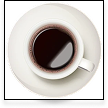
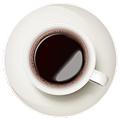
feat: coffee list

Changed region(s): [[0.0278, 0.0, 0.9722, 0.9444], [0.1111, 0.2222, 0.1389, 0.2778], [0.1389, 0.1667, 0.1667, 0.1944]]

diff --git a/src/app/components/coffee-item/coffee-item.component.scss b/src/app/components/coffee-item/coffee-item.component.scss
@@ -1,0 +1,111 @@
+:host {
+  .coffee-item {
+    background: var(--baseCard);
+    border-radius: 6px;
+    border-top-right-radius: 36px;
+    border-bottom-left-radius: 36px;
+    padding: 20px;
+    position: relative;
+
+    display: flex;
+    flex-direction: column;
+    // justify-content: center;
+    align-items: center;
+
+    .coffee-image {
+      margin-top: -40px;
+    }
+
+    .badges {
+      margin-top: 16px;
+      display: flex;
+      align-items: center;
+      justify-content: center;
+      flex-wrap: wrap;
+      gap: 4px;
+
+      .badge-item {
+        padding: 4px 8px;
+        background-color: var(--yellowLight);
+        border-radius: 100px;
+
+        color: var(--yellowDark);
+        font-size: 10px;
+        font-weight: bold;
+      }
+    }
+
+    h5 {
+      margin-top: 16px;
+      font-family: 'Baloo 2';
+      font-size: 20px;
+      font-weight: bold;
+    }
+
+    p.description {
+      color: var(--baseLabel);
+      text-align: center;
+      margin-top: 8px;
+    }
+
+    .coffee-item-footer {
+      margin-top: 30px;
+      display: flex;
+      align-items: center;
+    }
+
+    .coffee-item-footer {
+      display: flex;
+      align-items: center;
+
+      p.price {
+        font-family: 'Baloo 2';
+        font-size: 24px;
+        font-weight: bold;
+
+        span {
+          font-family: 'Roboto';
+          font-size: 14px;
+          font-weight: 400;
+        }
+      }
+
+      button {
+        ::ng-deep app-cart-icon div {
+          margin-left: 8px;
+          background-color: var(--purple);
+          color: white;
+          height: 38px;
+        }
+      }
+
+      .qtd-control {
+        display: flex;
+        align-items: center;
+        padding: 8px;
+        background-color: var(--baseButton);
+        border-radius: 6px;
+        margin-left: 23px;
+        height: 38px;
+
+        button {
+          background-color: transparent;
+          color: var(--purple);
+          display: flex;
+          align-items: center;
+          justify-content: center;
+        }
+
+        input {
+          max-width: 30px;
+          background-color: transparent;
+          border: 0;
+          outline: none;
+          text-align: center;
+          color: var(--baseTitle);
+          font-size: 16px;
+        }
+      }
+    }
+  }
+}

diff --git a/src/app/components/coffee-item/coffee-item.component.html b/src/app/components/coffee-item/coffee-item.component.html
@@ -1,0 +1,32 @@
+<div class="coffee-item">
+  <img src="assets/coffees/americano.png" alt="café expresso" class="coffee-image" />
+
+  <ul class="badges">
+    <li class="badge-item">TRADICIONAL</li>
+    <li class="badge-item">TRADICIONAL</li>
+  </ul>
+
+  <h5>EXPRESSO AMERICANO</h5>
+
+  <p class="description">O tradicional café feito com água quente e grãos moídos</p>
+
+  <div class="coffee-item-footer">
+    <p class="price"><span>R$</span> 9,90</p>
+
+    <div class="qtd-control">
+      <button type="button" aria-label="Remover 1 item do carrinho">
+        <app-minus-icon [width]="12" [height]="12"></app-minus-icon>
+      </button>
+
+      <input type="text" value="0" />
+
+      <button type="button" aria-label="Adicionar +1 item ao carrinho">
+        <app-plus-icon [width]="12" [height]="12"></app-plus-icon>
+      </button>
+    </div>
+
+    <button type="button">
+      <app-cart-icon class="cart-item"></app-cart-icon>
+    </button>
+  </div>
+</div>

diff --git a/src/app/pages/home/home.component.ts b/src/app/pages/home/home.component.ts
@@ -4,6 +4,7 @@ import { ShoppingCartFillIconComponent } from '../../components/icons/shopping-c
 import { PackageIconComponent } from '../../components/icons/package-icon.component'
 import { CoffeeFillIconComponent } from '../../components/icons/coffee-fill-icon.component'
 import { TimerFillIconComponent } from '../../components/icons/timer-fill-icon.component'
+import { CoffeeItemComponent } from '../../components/coffee-item/coffee-item.component'
 
 @Component({
   selector: 'app-home',
@@ -12,7 +13,8 @@ import { TimerFillIconComponent } from '../../components/icons/timer-fill-icon.c
     ShoppingCartFillIconComponent,
     PackageIconComponent,
     CoffeeFillIconComponent,
-    TimerFillIconComponent
+    TimerFillIconComponent,
+    CoffeeItemComponent
   ],
   templateUrl: './home.component.html',
   styleUrl: './home.component.scss'

diff --git a/src/app/components/coffee-item/coffee-item.component.spec.ts b/src/app/components/coffee-item/coffee-item.component.spec.ts
@@ -1,0 +1,22 @@
+import { ComponentFixture, TestBed } from '@angular/core/testing'
+
+import { CoffeeItemComponent } from './coffee-item.component'
+
+describe('CoffeeItemComponent', () => {
+  let component: CoffeeItemComponent
+  let fixture: ComponentFixture<CoffeeItemComponent>
+
+  beforeEach(async () => {
+    await TestBed.configureTestingModule({
+      imports: [CoffeeItemComponent]
+    }).compileComponents()
+
+    fixture = TestBed.createComponent(CoffeeItemComponent)
+    component = fixture.componentInstance
+    fixture.detectChanges()
+  })
+
+  it('should create', () => {
+    expect(component).toBeTruthy()
+  })
+})

diff --git a/src/app/components/cart-icon/cart-icon.component.ts b/src/app/components/cart-icon/cart-icon.component.ts
@@ -1,11 +1,16 @@
-import { Component } from '@angular/core'
+import { Component, Input } from '@angular/core'
+import { CommonModule } from '@angular/common'
+
 import { ShoppingCartFillIconComponent } from '../icons/shopping-cart-fill-icon.component'
 
 @Component({
   selector: 'app-cart-icon',
   standalone: true,
-  imports: [ShoppingCartFillIconComponent],
+  imports: [ShoppingCartFillIconComponent, CommonModule],
   templateUrl: './cart-icon.component.html',
   styleUrl: './cart-icon.component.scss'
 })
-export class CartIconComponent {}
+export class CartIconComponent {
+  @Input()
+  qtd: number = 0
+}

diff --git a/src/app/components/coffee-item/coffee-item.component.ts b/src/app/components/coffee-item/coffee-item.component.ts
@@ -1,0 +1,14 @@
+import { Component } from '@angular/core'
+
+import { CartIconComponent } from '../cart-icon/cart-icon.component'
+import { MinusIconComponent } from '../icons/minus-icon.component'
+import { PlusIconComponent } from '../icons/plus-icon.component'
+
+@Component({
+  selector: 'app-coffee-item',
+  standalone: true,
+  imports: [CartIconComponent, MinusIconComponent, PlusIconComponent],
+  templateUrl: './coffee-item.component.html',
+  styleUrl: './coffee-item.component.scss'
+})
+export class CoffeeItemComponent {}

diff --git a/src/app/components/cart-icon/cart-icon.component.scss b/src/app/components/cart-icon/cart-icon.component.scss
@@ -4,5 +4,22 @@
     background-color: var(--yellowLight);
     border-radius: 6px;
     color: var(--yellowDark);
+    position: relative;
+  }
+
+  .qtd {
+    position: absolute;
+    right: -9px;
+    top: -9px;
+    width: 20px;
+    height: 20px;
+    border-radius: 50%;
+    background-color: var(--yellowDark);
+    color: var(--white);
+    font-weight: bold;
+    font-size: 12px;
+    display: flex;
+    align-items: center;
+    justify-content: center;
   }
 }

diff --git a/src/app/pages/home/home.component.html b/src/app/pages/home/home.component.html
@@ -33,3 +33,15 @@
 
   <img src="assets/home-intro-coffee.png" alt="Coffee background" />
 </section>
+
+<section id="coffees">
+  <h2>Nossos cafés</h2>
+
+  <div class="coffee-list">
+    <app-coffee-item></app-coffee-item>
+    <app-coffee-item></app-coffee-item>
+    <app-coffee-item></app-coffee-item>
+    <app-coffee-item></app-coffee-item>
+    <app-coffee-item></app-coffee-item>
+  </div>
+</section>

diff --git a/src/app/pages/home/home.component.scss b/src/app/pages/home/home.component.scss
@@ -57,4 +57,21 @@
       }
     }
   }
+
+  #coffees {
+    h2 {
+      color: var(--baseSubtitle);
+      font-weight: bold;
+      font-size: 32px;
+      font-family: 'Baloo 2';
+      margin-bottom: 50px;
+    }
+
+    .coffee-list {
+      display: grid;
+      grid-template-columns: repeat(4, 1fr);
+      grid-column-gap: 32px;
+      grid-row-gap: 40px;
+    }
+  }
 }

diff --git a/src/app/components/header/header.component.html b/src/app/components/header/header.component.html
@@ -10,7 +10,7 @@
     </div>
 
     <a routerLink="/order">
-      <app-cart-icon></app-cart-icon>
+      <app-cart-icon [qtd]="3"></app-cart-icon>
     </a>
   </div>
 </header>

diff --git a/src/app/components/cart-icon/cart-icon.component.html b/src/app/components/cart-icon/cart-icon.component.html
@@ -1,3 +1,4 @@
 <div>
+  <div class="qtd" *ngIf="qtd > 0">{{qtd}}</div>
   <app-shopping-cart-fill-icon [width]="19" [height]="19"></app-shopping-cart-fill-icon>
 </div>

diff --git a/src/styles.scss b/src/styles.scss
@@ -46,6 +46,11 @@ ul {
   list-style: none;
 }
 
+button {
+  border: 0;
+  cursor: pointer;
+}
+
 .container {
   width: 100%;
   max-width: 1120px;
